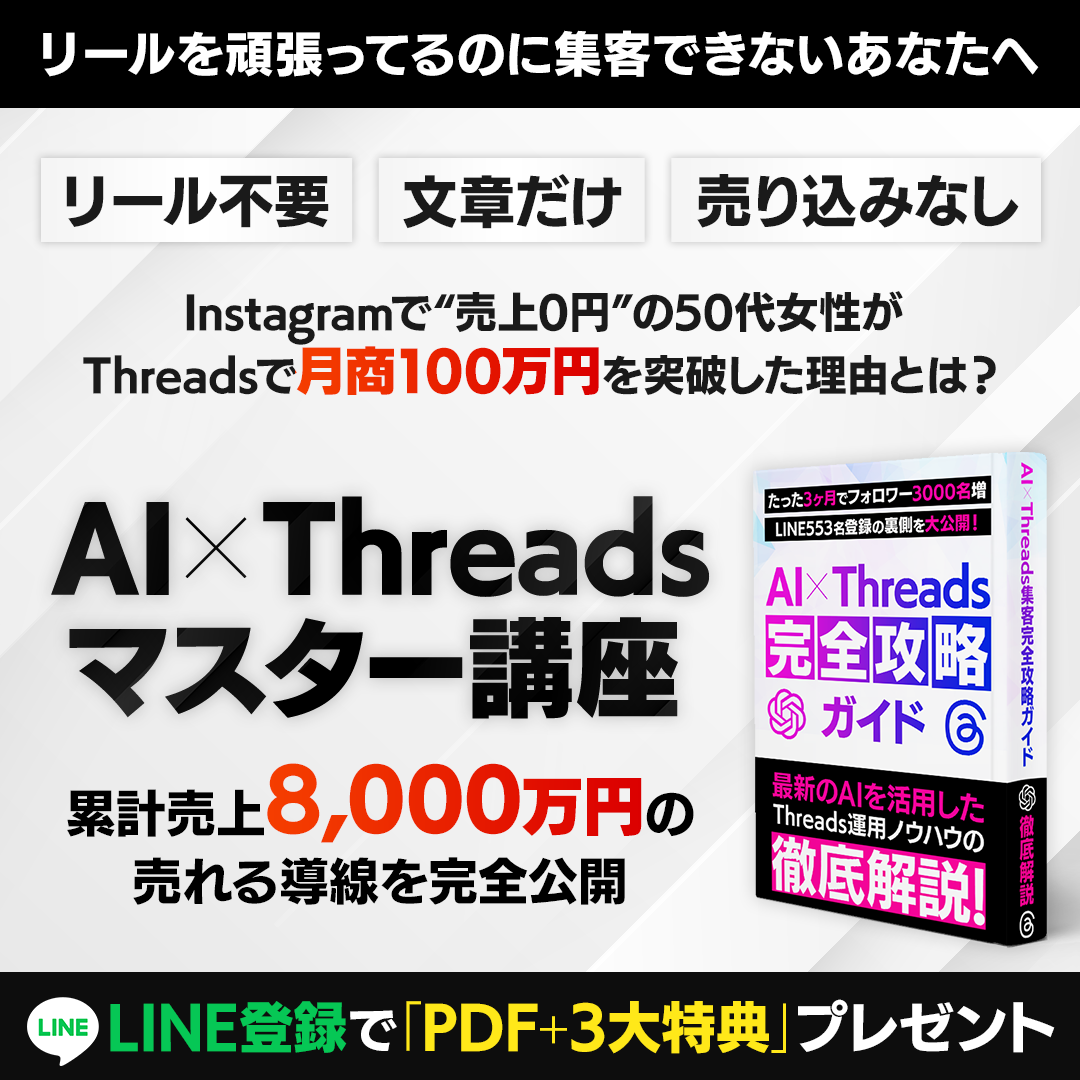
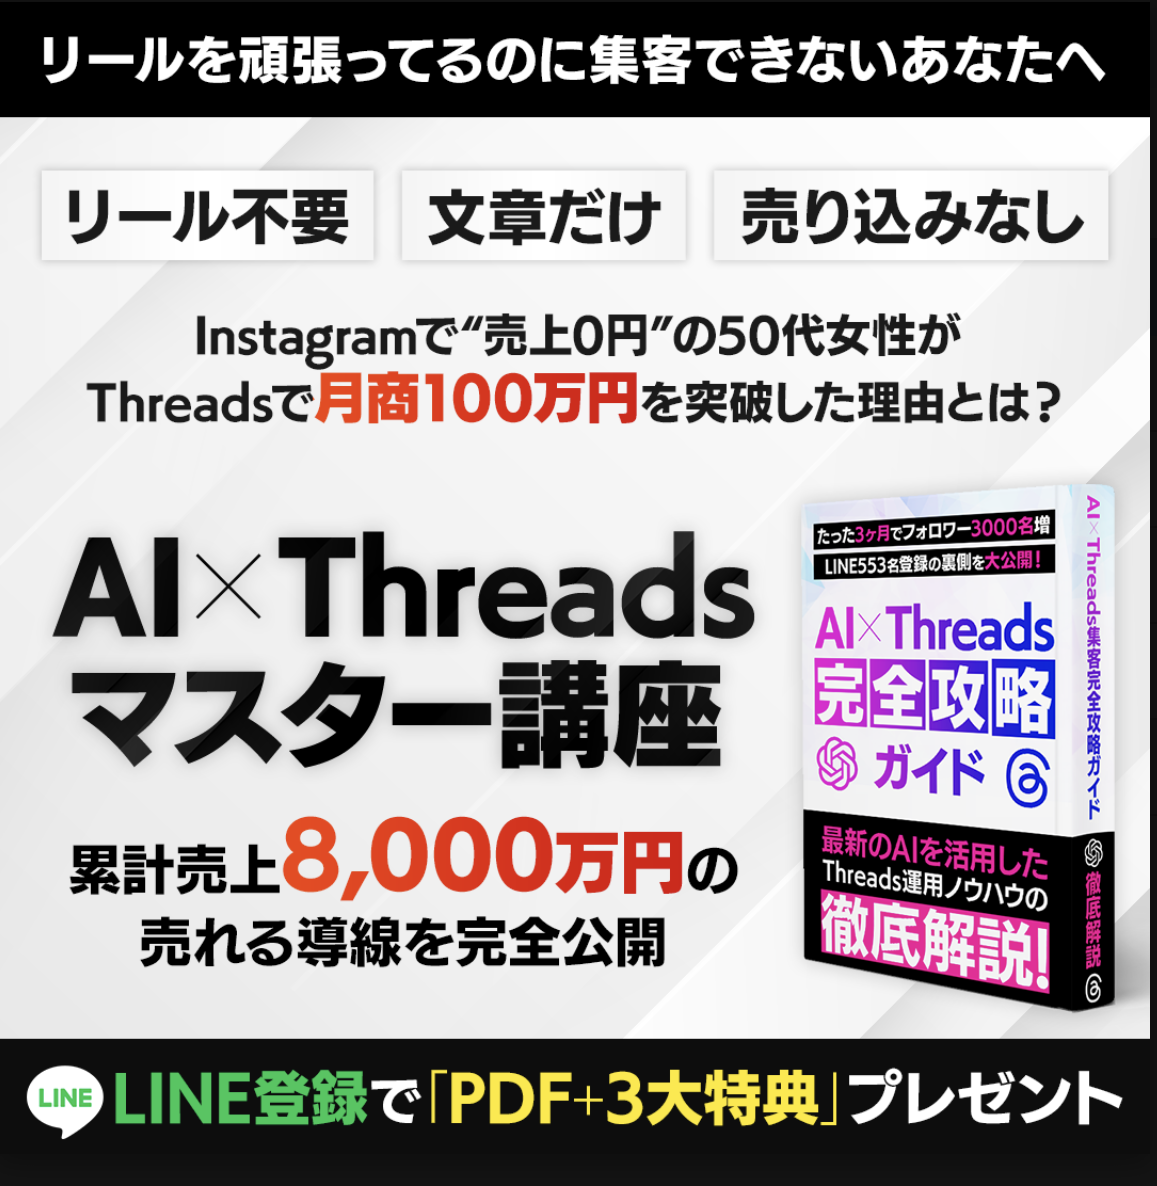
Update agyop1 for Yamazaki profile

diff --git a/content/agyop1/landing.html b/content/agyop1/landing.html
@@ -1140,7 +1140,7 @@
   <div data-raw-html-root>
   <!-- ヘッダー -->
 <div class="header-image" style="text-align: center; background: #ffffff; padding: 0;">
-    <img src="/agyop1/banner056.png" alt="AI×Threads集客術" width="1080" height="1080" loading="eager" decoding="async" fetchpriority="high" style="width: 100%; max-width: 800px; height: auto; display: block; margin: 0 auto;">
+    <img src="/agyop1/banner056.png" alt="AI×Threadsマスター講座" width="1157" height="1186" loading="eager" decoding="async" fetchpriority="high" style="width: 100%; max-width: 800px; height: auto; display: block; margin: 0 auto;">
 </div>
 
 <!-- CTA -->
@@ -1160,7 +1160,7 @@
 
             <!-- 特典画像 -->
             <div style="text-align: center; margin: 10px 0 20px 0;">
-                <img src="/agyop1/benefit2.png" alt="AI×Threads集客完全攻略ガイド" width="593" height="903" loading="lazy" decoding="async" style="max-width: 55%; height: auto;">
+                <img src="/agyop1/benefit2.png" alt="AI×Threads集客完全攻略ガイド" width="998" height="1576" loading="lazy" decoding="async" style="max-width: 55%; height: auto;">
             </div>
 
             <div class="benefit-content">
@@ -1210,7 +1210,7 @@
 
             <!-- 特典画像 -->
             <div style="text-align: center; margin-bottom: 20px;">
-                <img src="/agyop1/benefit1.png" alt="Threads×AI完全攻略 プレミアム動画講座" width="3072" height="2034" loading="lazy" decoding="async" style="max-width: 100%; height: auto;">
+                <img src="/agyop1/benefit1.png" alt="Threads運用実績" width="1536" height="1024" loading="lazy" decoding="async" style="max-width: 100%; height: auto;">
             </div>
 
             <div class="benefit-content">
@@ -1290,26 +1290,25 @@
 <!-- プロフィールセクション -->
 <div class="section profile bg-light-purple" style="padding: 40px 20px; background: #f0fdf4;">
     <div class="container" style="max-width: 800px; margin: 0 auto; padding: 0 15px;">
-        <h2 class="section-title" style="font-size: 32px; text-align: center; margin-bottom: 25px; font-weight: 800; color: #333; letter-spacing: -0.03em; line-height: 1.3;">主宰者プロフィール</h2>
+        <h2 class="section-title" style="font-size: 32px; text-align: center; margin-bottom: 25px; font-weight: 800; color: #333; letter-spacing: -0.03em; line-height: 1.3;">講師プロフィール</h2>
 
         <div style="text-align: center; margin-bottom: 25px;">
-            <img src="/agyop1/profile-threads.png" alt="くどう | AI×Threads売れるマーケ設計士" style="max-width: 100%; height: auto; border-radius: 10px;">
+            <img src="/agyop1/profile-threads.png" alt="ザッキー | AI×Threads集客設計士" style="max-width: 100%; height: auto; border-radius: 10px;">
         </div>
 
         <div class="profile-content">
             <div class="profile-achievements" style="margin-top: 15px;">
                 <h4 style="font-size: 15px; margin-bottom: 8px;">実績：</h4>
                 <ul style="list-style: none; font-size: 14px;">
-                    <li style="padding: 6px 0; padding-left: 20px; position: relative;"><span style="content: '●'; position: absolute; left: 0; color: #10b981; font-size: 12px;">●</span>フォロワー4,342人増・インプレッション455万達成</li>
-                    <li style="padding: 6px 0; padding-left: 20px; position: relative;"><span style="content: '●'; position: absolute; left: 0; color: #10b981; font-size: 12px;">●</span>リール不要、文章だけで1,060名LINE登録</li>
-                    <li style="padding: 6px 0; padding-left: 20px; position: relative;"><span style="content: '●'; position: absolute; left: 0; color: #10b981; font-size: 12px;">●</span>投稿作成をAIで95%自動化</li>
-                    <li style="padding: 6px 0; padding-left: 20px; position: relative;"><span style="content: '●'; position: absolute; left: 0; color: #10b981; font-size: 12px;">●</span>SNSで8,000万円のマネタイズ実績</li>
-                    <li style="padding: 6px 0; padding-left: 20px; position: relative;"><span style="content: '●'; position: absolute; left: 0; color: #10b981; font-size: 12px;">●</span>コンサル実績100名以上</li>
+                    <li style="padding: 6px 0; padding-left: 20px; position: relative;"><span style="content: '●'; position: absolute; left: 0; color: #10b981; font-size: 12px;">●</span>フォロワー2,715人増・インプレッション612万達成</li>
+                    <li style="padding: 6px 0; padding-left: 20px; position: relative;"><span style="content: '●'; position: absolute; left: 0; color: #10b981; font-size: 12px;">●</span>リール不要、文章だけでLINE登録713名</li>
+                    <li style="padding: 6px 0; padding-left: 20px; position: relative;"><span style="content: '●'; position: absolute; left: 0; color: #10b981; font-size: 12px;">●</span>投稿作成をAIで75%時短（作業時間2時間→30分）</li>
+                    <li style="padding: 6px 0; padding-left: 20px; position: relative;"><span style="content: '●'; position: absolute; left: 0; color: #10b981; font-size: 12px;">●</span>Threads×AI運用コーチとして個別相談・再クロージングを担当</li>
                 </ul>
             </div>
 
             <p style="margin-top: 20px; line-height: 1.8;">
-                フォロワー4,342人を増加させ、LINE登録1,060名を実現。投稿作成の95%をAIで自動化し、効率的な集客を実現している。
+                フォロワー2,715人を増加させ、LINE登録713名を実現。投稿作成の工程をAIで効率化し、作業時間を2時間から30分まで短縮している。
             </p>
 
             <p style="margin-top: 15px; line-height: 1.8;">
